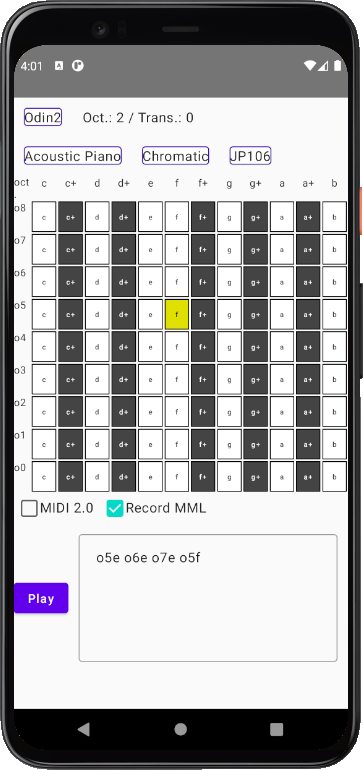
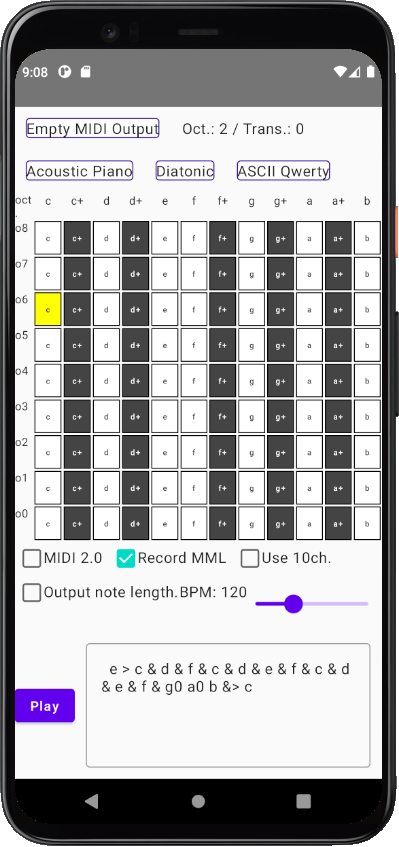
Implement support for note length in MML, as well as tempo slider.

diff --git a/common/src/commonMain/kotlin/dev/atsushieno/kmmk/App.kt b/common/src/commonMain/kotlin/dev/atsushieno/kmmk/App.kt
@@ -7,13 +7,21 @@ import androidx.compose.foundation.layout.Row
 import androidx.compose.foundation.layout.fillMaxWidth
 import androidx.compose.foundation.layout.height
 import androidx.compose.foundation.layout.padding
+import androidx.compose.foundation.layout.wrapContentHeight
+import androidx.compose.foundation.selection.toggleable
+import androidx.compose.foundation.text.KeyboardOptions
 import androidx.compose.material.Button
 import androidx.compose.material.Card
 import androidx.compose.material.Checkbox
+import androidx.compose.material.Divider
+import androidx.compose.material.ExperimentalMaterialApi
+import androidx.compose.material.ListItem
 import androidx.compose.material.MaterialTheme
 import androidx.compose.material.OutlinedTextField
+import androidx.compose.material.Slider
 import androidx.compose.material.Text
 import androidx.compose.material.TextButton
+import androidx.compose.material.TextField
 import androidx.compose.runtime.Composable
 import androidx.compose.runtime.getValue
 import androidx.compose.runtime.mutableStateOf
@@ -21,6 +29,7 @@ import androidx.compose.runtime.remember
 import androidx.compose.runtime.setValue
 import androidx.compose.ui.Alignment
 import androidx.compose.ui.Modifier
+import androidx.compose.ui.text.input.KeyboardType
 import androidx.compose.ui.text.input.TextFieldValue
 import androidx.compose.ui.unit.dp
 import dev.atsushieno.ktmidi.GeneralMidi
@@ -29,7 +38,7 @@ import dev.atsushieno.ktmidi.MidiCIProtocolType
 @Composable
 fun App(kmmk: KmmkComponentContext) {
     MaterialTheme {
-        Column {
+        Column(modifier = Modifier.wrapContentHeight()) {
             AppSettingsView(kmmk)
             MidiKeyboard(kmmk)
             MmlPad(kmmk)
@@ -189,30 +198,47 @@ fun KeyboardLayoutSelector(kmmk: KmmkComponentContext) {
     }
 }
 
+@OptIn(ExperimentalMaterialApi::class)
 @Composable
 fun MmlPad(kmmk: KmmkComponentContext) {
     Column {
         Row {
             val onMidi2Checked = {
-                kmmk.midiProtocol.value = if (kmmk.midiProtocol.value == MidiCIProtocolType.MIDI1) MidiCIProtocolType.MIDI2 else MidiCIProtocolType.MIDI1
+                kmmk.midiProtocol.value =
+                    if (kmmk.midiProtocol.value == MidiCIProtocolType.MIDI1) MidiCIProtocolType.MIDI2 else MidiCIProtocolType.MIDI1
             }
-            Row(modifier = Modifier.padding(6.dp).clickable{ onMidi2Checked() }) {
-                Checkbox(checked = kmmk.midiProtocol.value == MidiCIProtocolType.MIDI2, onCheckedChange = { onMidi2Checked() })
+            Row(modifier = Modifier.padding(6.dp).clickable { onMidi2Checked() }) {
+                Checkbox(
+                    checked = kmmk.midiProtocol.value == MidiCIProtocolType.MIDI2,
+                    onCheckedChange = { onMidi2Checked() })
                 Text("MIDI 2.0")
             }
             val onRecordMmlChecked = {
                 kmmk.shouldRecordMml.value = !kmmk.shouldRecordMml.value
             }
             Row(modifier = Modifier.padding(6.dp).clickable { onRecordMmlChecked() }) {
-                Checkbox(checked = kmmk.shouldRecordMml.value, onCheckedChange = {  onRecordMmlChecked() })
+                Checkbox(checked = kmmk.shouldRecordMml.value, onCheckedChange = { onRecordMmlChecked() })
                 Text("Record MML")
             }
             val onUseDrumChannelChecked = {
                 kmmk.useDrumChannel.value = !kmmk.useDrumChannel.value
             }
             Row(modifier = Modifier.padding(6.dp).clickable { onUseDrumChannelChecked() }) {
-                Checkbox(checked = kmmk.useDrumChannel.value, onCheckedChange = {  onUseDrumChannelChecked() })
+                Checkbox(checked = kmmk.useDrumChannel.value, onCheckedChange = { onUseDrumChannelChecked() })
                 Text("Use 10ch.")
+            }
+        }
+        Row {
+            val onShouldOutputNoteLengthChecked = {
+                kmmk.shouldOutputNoteLength.value = !kmmk.shouldOutputNoteLength.value
+            }
+            Row(modifier = Modifier.padding(6.dp).clickable { onShouldOutputNoteLengthChecked() }) {
+                Checkbox(checked = kmmk.shouldOutputNoteLength.value, onCheckedChange = {  onShouldOutputNoteLengthChecked() })
+                Text("Output note length.")
+                Text("BPM: ${kmmk.currentTempo.value.toInt()}")
+                Slider(value = kmmk.currentTempo.value.toFloat(),
+                    onValueChange = { kmmk.currentTempo.value = it.toDouble() },
+                    valueRange = 60f .. 240f)
             }
         }
         Row {
@@ -230,5 +256,3 @@ fun MmlPad(kmmk: KmmkComponentContext) {
         }
     }
 }
-
-

diff --git a/common/src/commonMain/kotlin/dev/atsushieno/kmmk/Model.kt b/common/src/commonMain/kotlin/dev/atsushieno/kmmk/Model.kt
@@ -41,6 +41,9 @@ class KmmkComponentContext(
 
     var useDrumChannel = mutableStateOf(false)
 
+    var shouldOutputNoteLength = mutableStateOf(false)
+    var currentTempo = mutableStateOf(120.0)
+
     val midiDeviceManager = MidiDeviceManager()
     var midiProtocol = mutableStateOf(MidiCIProtocolType.MIDI1)
 
@@ -64,6 +67,17 @@ class KmmkComponentContext(
         get() = if (useDrumChannel.value) 9 else 0
 
     @OptIn(ExperimentalTime::class)
+    private fun calculateLength(msec: Double) : String {
+        if (!shouldOutputNoteLength.value)
+            return ""
+        // 500 = full note at BPM 120. Minimum by 1/8.
+        val n8th = (currentTempo.value / 120.0 * msec / (500.0 / 8)).toInt()
+        val longPart = "1^".repeat(n8th / 8)
+        val remaining = arrayOf("0", "8", "4", "4.", "2", "2^8", "2.", "2..")
+        return longPart + remaining[n8th % 8]
+    }
+
+    @OptIn(ExperimentalTime::class)
     fun noteOn(key: Int) {
         if (key < 0 || key >= 128) // invalid operation
             return
@@ -81,9 +95,12 @@ class KmmkComponentContext(
         }
 
         if (shouldRecordMml.value) {
+            val msec = (Clock.System.now() - lastNoteOnTime).inWholeMilliseconds.toDouble()
+            val lengthSpec = calculateLength(msec)
+
             // Output & or 0 if there is overlapped note. If it's within 100ms, then it is chord ('0'), otherwise '&'.
             if (existingPlayingNotes)
-                mmlText.value += if ((Clock.System.now() - lastNoteOnTime).inWholeMilliseconds < 100) "0" else "&"
+                mmlText.value += if (msec < 100) "0" else "$lengthSpec &"
             else
                 mmlText.value += " "
             // put relative octave changes.
@@ -99,10 +116,17 @@ class KmmkComponentContext(
         }
     }
 
+    @OptIn(ExperimentalTime::class)
     fun noteOff(key: Int) {
         if (key < 0 || key >= 128 || noteOnStates[key] == 0) // invalid operation
             return
         noteOnStates[key]--
+
+        if (shouldRecordMml.value && noteOnStates.all { it == 0 }) { // chord notes already had length, so do not output length for them.
+            val msec = (Clock.System.now() - lastNoteOnTime).inWholeMilliseconds.toDouble()
+            val lengthSpec = calculateLength(msec)
+            mmlText.value += lengthSpec
+        }
 
         if (midiProtocol.value == MidiCIProtocolType.MIDI2) {
             val nOff = Ump(UmpFactory.midi2NoteOff(0, targetChannel, key, 0, 0, 0)).toBytes()
